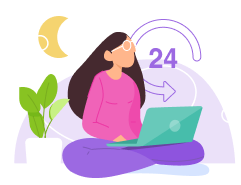
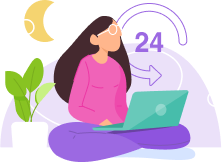
feat: сверстать features 1 часть

diff --git a/index.html b/index.html
@@ -9,6 +9,7 @@
   <link rel="stylesheet" href="./pages/index.css">
 </head>
 <body class="page">
+
   <header class="header">
     <img class="logo" src="./images/Logo.svg">
     <nav class="header__navigation">
@@ -24,7 +25,9 @@
       <img class="button-arrow" src="./images/Group%2056.png"/>
     </button>
   </header>
+
   <main class="content">
+
     <section class="intro">
       <h1 class="intro__title">Save your data storage here.</h1>
       <p class="intro__description">Data Warehouse is a data storage area that has been
@@ -35,18 +38,90 @@
       </button>
       <img class="intro__image" src="./images/image1%201.png">
     </section>
+
     <section class="description">
       <img class="description__image" src="./images/image2.png">
       <div>
         <h2 class="description__title">We are a high-level data storage bank</h2>
         <p class="description__paragraph">The place to&nbsp;store various data that you can access at&nbsp;any time through the internet and where you can carry&nbsp;it. This&nbspvery flexible storage area has a&nbsp;high level of&nbsp;security. To&nbsp;enter into your own data you must enter the password that you created when you registered in&nbsp;this Data Warehouse.</p>
       </div>
+    </section>
+
+    <section class="features">
+      <h2 class="features__title">Features</h2>
+      <p class="features__description">Some of the features and advantages that we provide for those of you who store data in this Data Warehouse.</p>
+
+      <div class="features__grid">
+
+        <div class="features__grid-item features__element-1">
+          <img class="features__image" src="./images/image3%201.png">
+          <div class="features__grid-item-info">
+            <h3 class="features__item-title">Search Data</h3>
+            <p class="features__item-description">Don’t worry if your data is very large, the Data Warehoue provides a search engine, which is useful for making it easier to find data effectively saving time.</p>
+            <a class="features__link">
+              <p>Learn More</p>
+              <img src="./images/Group%2056.png">
+            </a>
+          </div>
+        </div>
+
+        <div class="features__grid-item">
+          <div class="features__grid-item features__element-2">
+            <img class="features__image" src="./images/image4.png">
+            <div class="features__grid-item-info">
+              <h3 class="features__item-title">24 Hours Access</h3>
+              <p class="features__item-description">Access is given 24 hours a full morning to night and
+                meet again in the morning, giving you comfort when
+                you need data when urgent.</p>
+              <a class="features__link">
+                <p>Learn More</p>
+                <img src="./images/Group%2056.png">
+              </a>
+            </div>
+          </div>
+        </div>
+
+        <div class="features__grid-item">
+          <div class="features__grid-item features__element-3">
+            <img class="features__image" src="./images/image5%201.png">
+            <div class="features__grid-item-info">
+              <h3 class="features__item-title">Print Out</h3>
+              <p class="features__item-description">Print out service gives you convenience if someday
+                you need print data, just edit it all and just print it.</p>
+              <a class="features__link">
+                <p>Learn More</p>
+                <img src="./images/Group%2056.png">
+              </a>
+            </div>
+          </div>
+        </div>
+
+        <div class="features__grid-item">
+          <div class="features__grid-item features__element-4">
+            <img class="features__image" src="./images/image6%201.png">
+            <div class="features__grid-item-info">
+              <h3 class="features__item-title">Security Code</h3>
+              <p class="features__item-description">Data Security is one of our best facilities. Allows for your files
+                to be safer. The file can be secured with a code or password that
+                you created, so only you can open the file.</p>
+              <a class="features__link">
+                <p>Learn More</p>
+                <img src="./images/Group%2056.png">
+              </a>
+            </div>
+          </div>
+        </div>
+
+      </div>
 
     </section>
-    <section class="features"></section>
+
     <section class="testimonials"></section>
+
     <section class="try"></section>
+
   </main>
+
   <footer class="footer">
     <div>
       <div></div>
@@ -59,5 +134,6 @@
       <div class="footer__button"></div>
     </div>
   </footer>
+
 </body>
 </html>

diff --git a/pages/index.css b/pages/index.css
@@ -3,6 +3,7 @@
 @import url(../blocks/logo/logo.css);
 @import url(../blocks/intro/intro.css);
 @import url(../blocks/description/description.css);
+@import url(../blocks/features/features.css);
 
 @import url(../blocks/content/content.css);
 @import url(../blocks/button/button.css);
@@ -17,6 +18,19 @@
 @import url(../blocks/description/__title/description__title.css);
 @import url(../blocks/description/__image/description__image.css);
 @import url(../blocks/description/__paragraph/description__paragraph.css);
+@import url(../blocks/features/__title/features__title.css);
+@import url(../blocks/features/__description/features__description.css);
+@import url(../blocks/features/__grid/features__grid.css);
+@import url(../blocks/features/__grid-item/features__grid-item.css);
+@import url(../blocks/features/__image/features__image.css);
+@import url(../blocks/features/__element-1/features__element-1.css);
+@import url(../blocks/features/__element-2/features__element-2.css);
+@import url(../blocks/features/__element-3/features__element-3.css);
+@import url(../blocks/features/__element-4/features__element-4.css);
+@import url(../blocks/features/__link/features__link.css);
+@import url(../blocks/features/__grid-item-info/features__grid-item-info.css);
+@import url(../blocks/features/__item-description/features__item-description.css);
+@import url(../blocks/features/__item-title/features__item-title.css);
 
 
 @import url(../blocks/button/_type_1/button_type_1.css);

diff --git a/blocks/features/__link/features__link.css b/blocks/features/__link/features__link.css
@@ -1,0 +1,25 @@
+.features__link {
+  margin: auto 0 0 0;
+  padding: 0;
+  font-family: Avenir;
+  font-size: 16px;
+  font-weight: 700;
+  line-height: 26px;
+  text-align: left;
+  display: flex;
+  align-items: center;
+  gap: 20px;
+  border: blue 1px solid;
+}
+
+.features__link p {
+  margin: 0;
+  padding: 0;
+}
+
+.features__link img {
+  margin: 0;
+  padding: 0;
+  width: 20px;
+  height: 14px;
+}

diff --git a/blocks/features/__grid-item/features__grid-item.css b/blocks/features/__grid-item/features__grid-item.css
@@ -1,0 +1,13 @@
+.features__grid-item {
+  margin: 0;
+  padding: 0;
+  height: 358px;
+  width: 540px;
+  border: #9C69E2 1px solid;
+  display: flex;
+  justify-content: space-between;
+  background-repeat: no-repeat;
+  background-size: contain;
+  background-position: right;
+  align-items: center;
+}

diff --git a/blocks/features/__description/features__description.css b/blocks/features/__description/features__description.css
@@ -1,10 +1,10 @@
-.description__paragraph {
-  margin: 0;
+.features__description {
+  margin: 50px 0 70px;
   padding: 0;
   font-family: Avenir;
   font-size: 18px;
   font-weight: 300;
   line-height: 29px;
-  text-align: left;
-  max-width: 474px;
+  text-align: center;
+  max-width: 584px;
 }

diff --git a/blocks/features/__item-description/features__item-description.css b/blocks/features/__item-description/features__item-description.css
@@ -1,0 +1,12 @@
+.features__item-description {
+  margin: 0;
+  padding: 0;
+  max-width: 220px;
+  font-family: Avenir;
+  font-size: 16px;
+  font-weight: 300;
+  line-height: 26px;
+  text-align: left;
+  border: red 1px solid;
+  color: #4B5D68;
+}

diff --git a/blocks/features/__grid-item-info/features__grid-item-info.css b/blocks/features/__grid-item-info/features__grid-item-info.css
@@ -1,0 +1,11 @@
+.features__grid-item-info {
+  margin: 0 50px 0 0;
+  padding: 0;
+  display: flex;
+  flex-direction: column;
+  border: aqua 1px solid;
+  height: 276px;
+  position: relative;
+  width: 220px;
+  gap: 25px;
+}

diff --git a/blocks/features/__item-title/features__item-title.css b/blocks/features/__item-title/features__item-title.css
@@ -1,0 +1,10 @@
+.features__item-title {
+  margin: 0;
+  padding: 0;
+  font-family: Helvetica;
+  font-size: 24px;
+  font-weight: 400;
+  line-height: 31px;
+  text-align: left;
+  border: green 1px solid;
+}

diff --git a/blocks/features/__grid/features__grid.css b/blocks/features/__grid/features__grid.css
@@ -1,0 +1,9 @@
+.features__grid {
+  margin: 0;
+  padding: 0;
+  display: grid;
+  grid-template-columns: 1fr 1fr;
+  grid-row-gap: 50px;
+  max-width: 100%;
+  border: coral 1px solid;
+}

diff --git a/blocks/features/__title/features__title.css b/blocks/features/__title/features__title.css
@@ -1,0 +1,9 @@
+.features__title {
+  margin: 0;
+  padding: 0;
+  font-family: Helvetica;
+  font-size: 40px;
+  font-weight: 700;
+  line-height: 52px;
+  text-align: center;
+}

diff --git a/blocks/features/features.css b/blocks/features/features.css
@@ -1,0 +1,7 @@
+.features {
+  margin: 0;
+  padding: 0;
+  display: flex;
+  flex-direction: column;
+  align-items: center;
+}

diff --git a/blocks/features/__element-1/features__element-1.css b/blocks/features/__element-1/features__element-1.css
@@ -1,0 +1,3 @@
+.features__element-1 {
+  background-image: url("./../../../images/back4.png");
+}
